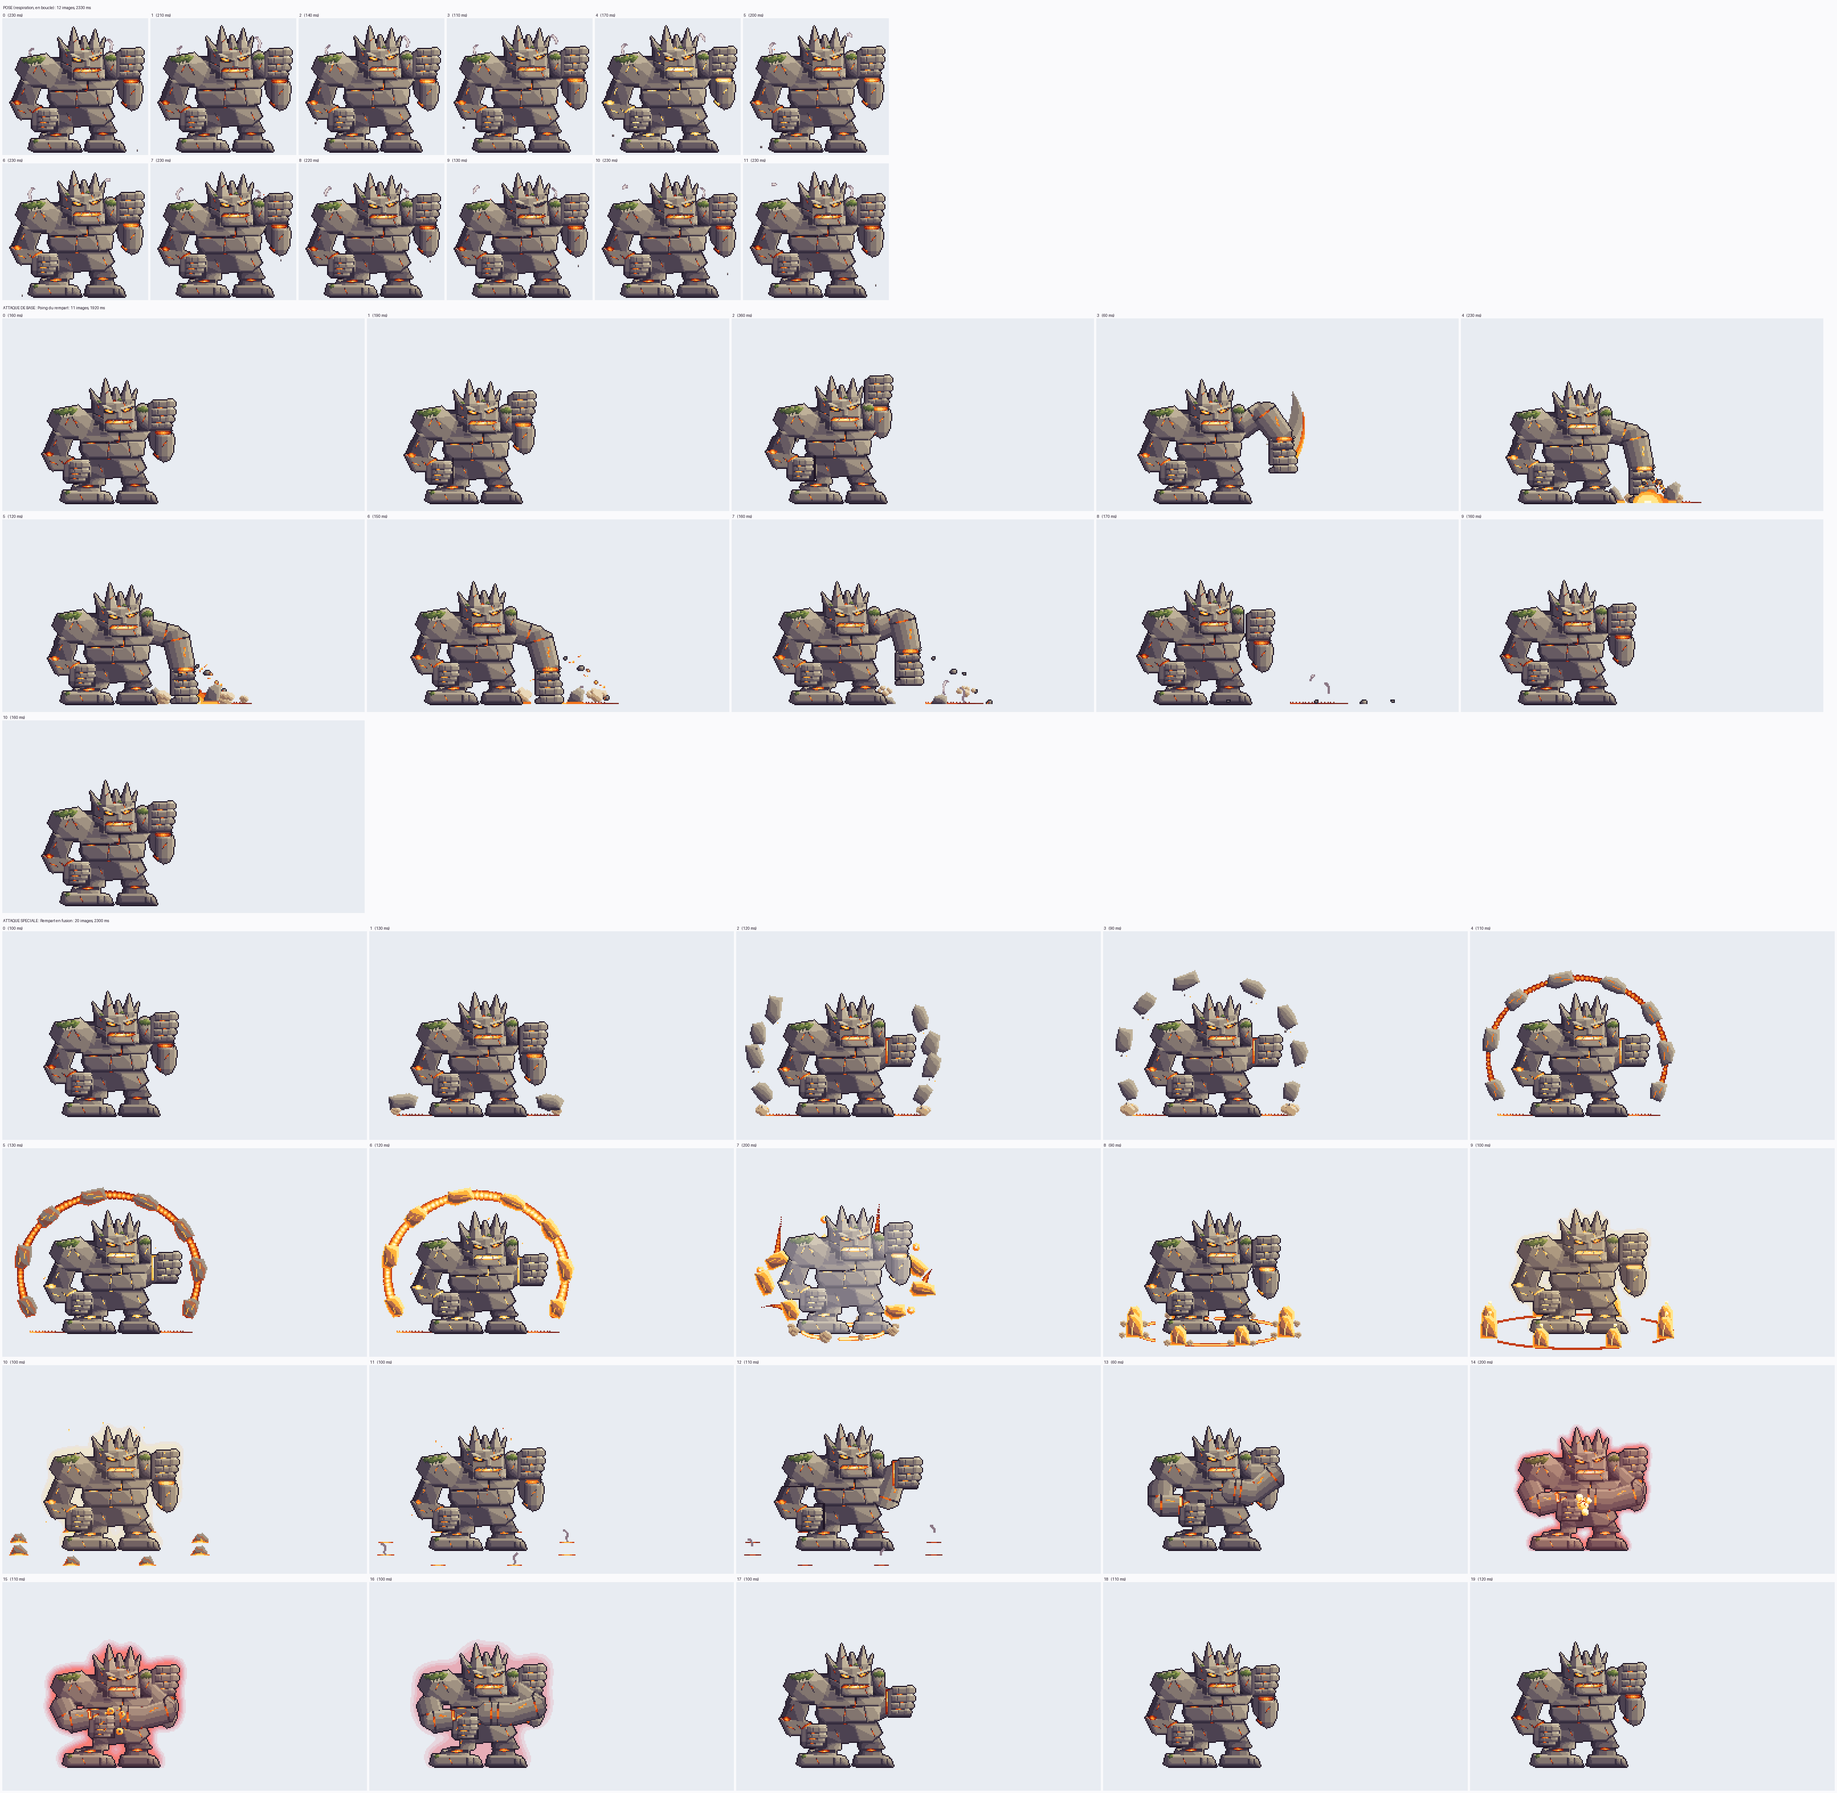
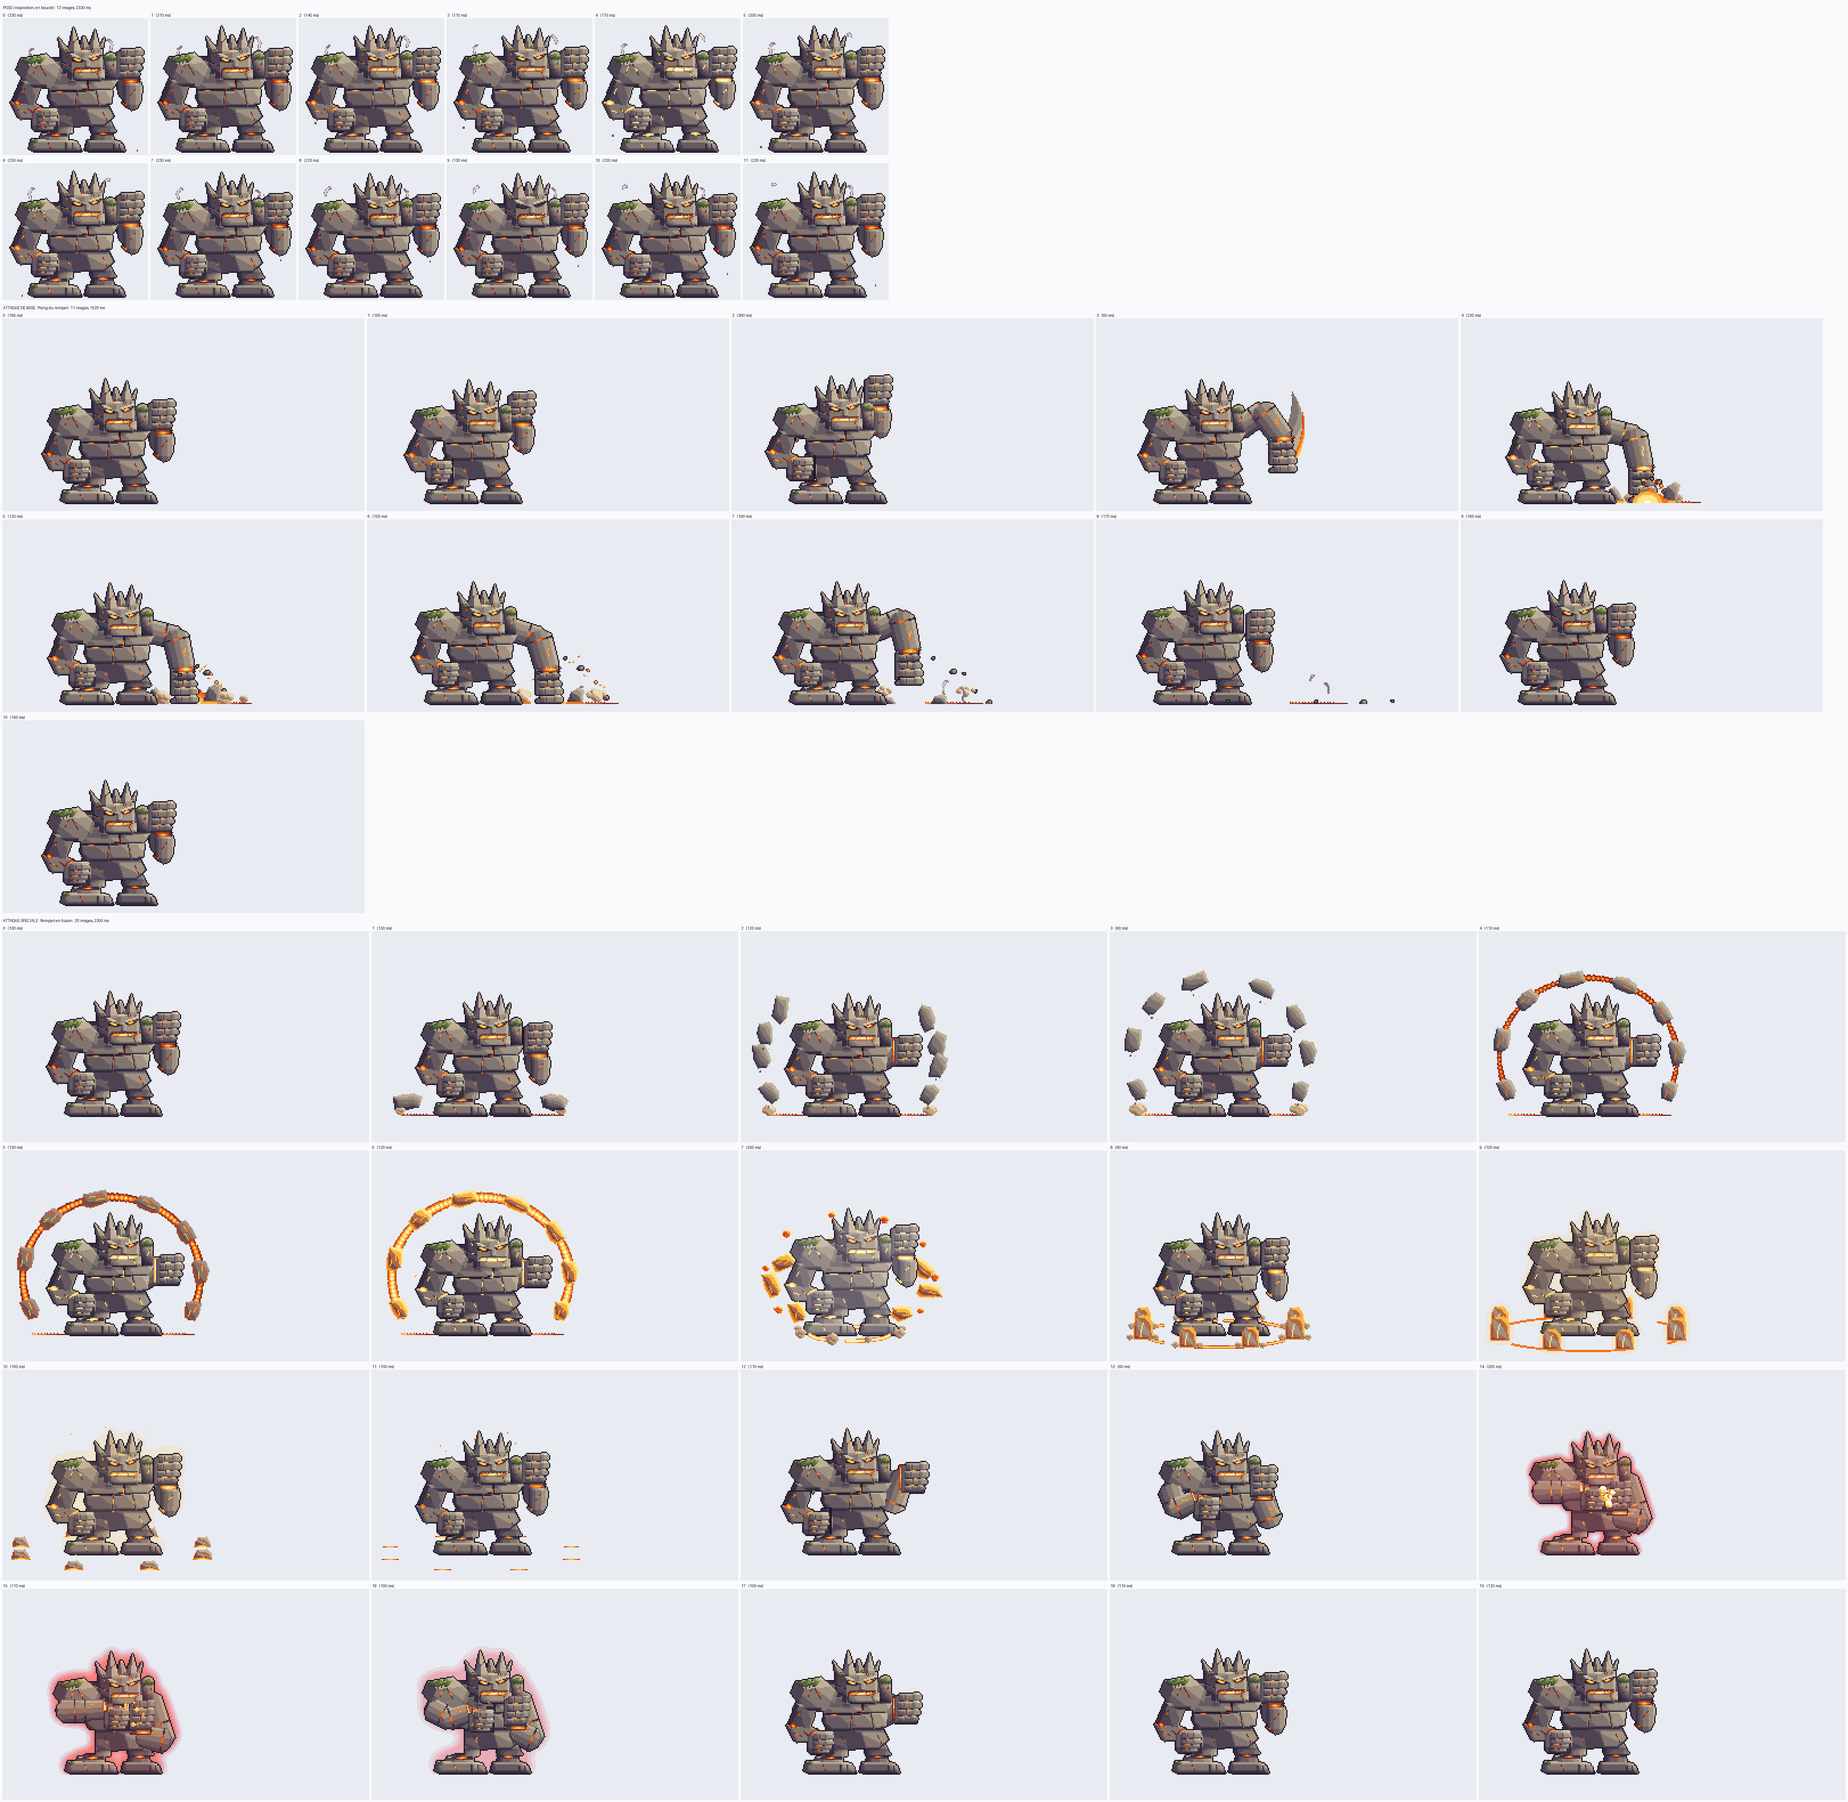
HD : spéciale d'équipe de Garvin en cours (sauvegarde)
Claude-Session: https://claude.ai/code/session_01StTiAZjvnzYLiVPjaUWZHe

diff --git a/refonte-graphique/pixel/hd/anim/garvin/build.py b/refonte-graphique/pixel/hd/anim/garvin/build.py
@@ -763,7 +763,9 @@ def rig_frame(f):
     arm = f.get('arm', ('orig', 0, 0))
     ctx.S = SH_FAR + o
     # le bras lointain (derrière le buste)
-    if arm[0] == 'orig':
+    if f.get('clash'):
+        pass                                         # les bras du défi : voir clash_arms
+    elif arm[0] == 'orig':
         blit(cv, glow(P['brasL'], gl), cx + arm[1], cy + arm[2])
         ctx.fist = np.array([112.0 + arm[1], 40.0 + arm[2]]) + o
     elif arm[0] == 'hammer':
@@ -782,7 +784,6 @@ def rig_frame(f):
     if clash:
         clash_arms(cv, ctx, clash, gl, 'derriere')
         body.draw(cv, glow(CORPS_NU, gl))
-        clash_arms(cv, ctx, clash, gl, 'devant')
     else:
         body.draw(cv, glow(P['corps'], gl))
         nx, ny = f.get('near', (0, 0))
@@ -791,6 +792,8 @@ def rig_frame(f):
     blit(cv, glow(P['tete'], gl), cx, cy, swap)
     if (hdx, hdy) != (0, 0):
         blit(cv, glow(P['tete'], gl), cx + hdx, cy + hdy, swap)
+    if clash:
+        clash_arms(cv, ctx, clash, gl)
     if f.get('post'):                                # la spéciale : la lave du corps change (le soin)
         post = f['post']
         cv[:] = np.vectorize(lambda c: post.get(c, c), otypes=['<U1'])(cv)
@@ -1156,13 +1159,14 @@ def stand_plate(cv, base, w, h, seed, heat=3, sink=0.0):
     bx, by = base
     dy = sink * h
     j = lambda: rng.uniform(-0.06, 0.06)
-    pts = [(-0.5, 0.0), (0.5, 0.0), (0.46 + j(), -0.72), (0.16 + j(), -1.0), (-0.22 + j(), -0.94), (-0.5, -0.58 + j())]
+    pts = [(-0.5, 0.0), (0.5, 0.0), (0.5, -0.76 + j()), (0.26 + j(), -1.0), (-0.3 + j(), -0.95), (-0.5, -0.7 + j())]
     pts = [(bx + u * w, by + dy + v * h) for (u, v) in pts]
     m = poly_mask(pts)
     m[int(by) + 1:, :] = False                       # sous le sol : rien
     if not m.any():
         return
-    tones = {0: '76543', 1: '76543', 2: '6h5g4', 3: 'vuhgt'}[heat]
+    # debout, elles restent de la roche (sinon on dirait des flammes) : la chaleur est dans leurs bords et leur fêlure
+    tones = {0: '76543', 1: '76543', 2: '7h6g4', 3: 'uh6hg'}[heat]
     v = light_field(m)
     edge = m & ~(np.roll(m, 1, 0) & np.roll(m, -1, 0) & np.roll(m, 1, 1) & np.roll(m, -1, 1))
     ys, xs = np.nonzero(m)
@@ -1171,7 +1175,7 @@ def stand_plate(cv, base, w, h, seed, heat=3, sink=0.0):
         ch = tones[0] if k > 0.28 else tones[1] if k > 0.08 else tones[2] if k > -0.1 else \
             tones[3] if k > -0.3 else tones[4]
         if edge[y, x] and k < -0.1:
-            ch = {0: '2', 1: '2', 2: 's', 3: 'u'}[heat]
+            ch = {0: '2', 1: '2', 2: 's', 3: 't'}[heat]
         put(cv, x, y, ch)
     if heat >= 1:
         # une fêlure de lave en marches, du pied vers le haut
@@ -1188,6 +1192,7 @@ def stand_plate(cv, base, w, h, seed, heat=3, sink=0.0):
             put(cv, bx + i, by, 'v' if e < 0.4 else 'u' if e < 0.75 else 't')
             if e < 0.6:
                 put(cv, bx + i, by - 1, 'u' if e < 0.3 else 't')
+    return m
 
 
 def plate_dims(i, r=1.0):
@@ -1195,7 +1200,7 @@ def plate_dims(i, r=1.0):
     ang, L, T, seed, bump, off = PLATES[i]
     back = math.sin(math.radians(RING_A[i])) > 0
     k = 0.9 if back else 1.04
-    return T * 1.05 * k, L * 0.9 * k
+    return T * 1.15 * k, L * 0.92 * k
 
 
 def ground_ellipse(back, front, r, w, tones, seed=0, holes=0.6):
@@ -1235,19 +1240,10 @@ def fx_ring(stage):
                     p[1] -= 10 * math.sin(math.pi * e)
                     behind = math.sin(math.radians(RING_A[i])) > 0
                     tgt = back if behind else front
-                    # une traînée de braise courbe derrière une plaque sur deux, une bouffée de chaleur derrière
-                    # les autres
-                    if i % 2 == 0:
-                        pts = []
-                        for j in range(16):
-                            q = e * j / 15
-                            pp = P0 + (P1 - P0) * q
-                            pts.append((pp[0], pp[1] - 10 * math.sin(math.pi * q)))
-                        ws = [0.8 + 6.5 * (j / 15) ** 1.3 for j in range(16)]
-                        stroke(back, pts, ws, 'vutsr', cool=[0.6 * (1 - j / 15) for j in range(16)])
-                    else:
-                        b = P0 + (P1 - P0) * (e * 0.45)
-                        puff(back, (b[0], b[1] - 4), 3.4, 'vut', hollow=0.35)
+                    # derrière chacune, une bouffée de chaleur qui se défait (pas de traînée droite : elles partent
+                    # dans toutes les directions, ce serait une couronne de rayons)
+                    bq = P0 + (P1 - P0) * (e * 0.35)
+                    cloud(back, (bq[0], bq[1] - 4), 2.6 if i % 2 else 3.2, 'vuts', seed=70 + i, ground=False)
                     spin = (1 if i % 2 else -1) * 35
                     plate(tgt, p, ang + 90 + spin * 0.6 + (RING_A[i] - ang) * 0.3, L, T, seed, heat=3)
                 # la poussière soufflée tout autour, au ras du sol
@@ -1258,9 +1254,11 @@ def fx_ring(stage):
                 return
             r = {'pose': 0.86, 'luit': 1.0, 'rentre': 1.03, 'fente': 1.03, 'froid': 1.03}[stage]
             if stage in ('pose', 'luit'):
-                ground_ellipse(back, front, 0.78 if stage == 'pose' else 1.0, 2.4 if stage == 'pose' else 1.6,
-                               'vuts' if stage == 'pose' else 'uts', seed=2 if stage == 'pose' else 4, holes=0.6)
+                ground_ellipse(back, front, 0.78 if stage == 'pose' else 1.0, 2.4 if stage == 'pose' else 1.4,
+                               'vuts' if stage == 'pose' else 'ut', seed=2 if stage == 'pose' else 4,
+                               holes=0.6 if stage == 'pose' else 0.42)
             order = sorted(range(8), key=lambda i: -math.sin(math.radians(RING_A[i])))   # de derrière vers devant
+            lit = np.zeros((H, W), bool)
             for i in order:
                 ang, L, T, seed, bump, off = PLATES[i]
                 th = RING_A[i]
@@ -1275,9 +1273,7 @@ def fx_ring(stage):
                         cloud(tgt, (base[0] + s_ * (w * 0.6 + 2), base[1] - 2), 2.6, 'EFFH', seed=seed + s_,
                               ground=False)
                 elif stage == 'luit':
-                    stand_plate(tgt, base, w, h, seed, heat=3)
-                    # elles luisent : une lueur douce au pied, le sol rougeoie sous elles
-                    puff(back if behind else front, (base[0] + 1, base[1] - h - 2), 1.6, 'wv')
+                    lit |= stand_plate(tgt, base, w, h, seed, heat=3)
                 elif stage == 'rentre':
                     stand_plate(tgt, base, w, h, seed, heat=2, sink=0.55)
                     if i % 3 == 0:
@@ -1289,9 +1285,13 @@ def fx_ring(stage):
                         e = abs(k) / (w / 2)
                         ch = ('u' if e < 0.35 else 't' if e < 0.7 else 's') if hot else ('s' if e < 0.4 else 'r' if e < 0.8 else 'O')
                         put(tgt, base[0] + k, base[1], ch)
-                    if i % 2 == 1:
-                        wisp(back if behind else front, (base[0], base[1] - 1), 8 if hot else 12, 2.0,
-                             tail=0.0 if hot else 0.35, cw=i % 4 == 1)
+            if lit.any():
+                # elles luisent : une lueur d'or douce et translucide autour de chacune (aucun trait)
+                B = np.asarray(Image.fromarray((lit * 255).astype(np.uint8)).filter(ImageFilter.GaussianBlur(2.6)),
+                               float) / 255
+                a_ = np.clip(B * 2.6, 0, 1) * 150
+                back[(a_ >= ALPHA['Q'] * 0.85) & (back == '.')] = 'Q'
+                back[(a_ >= ALPHA['R'] * 0.85) & (back == '.')] = 'R'
         finally:
             FLOOR[0] = None
     return f
@@ -1362,28 +1362,31 @@ CORPS_NU = P['corps'].copy()
 CORPS_NU[(XX == 49) & (YY >= 84) & (YY <= 92) & (CORPS_NU == '6')] = '3'
 
 
-def clash_arms(cv, ctx, c, gl, stage):
-    """stage 'derriere' : le haut du bras lointain (avant le buste) ; 'devant' : son avant-bras et son poing, puis le
-    bras proche et son poing (après le buste). c = dict(near=(dx, dy) du poing proche, far=poignet lointain (grille),
-    tip=bout du poing lointain (grille))"""
-    o = ctx.o
-    Sf = SH_FAR + o
-    Wf = np.array(c['far'], float) + o
-    Ef = ik(Sf, Wf, ARM_FAR[0], ARM_FAR[1], -1)
-    if stage == 'derriere':
-        layered(cv, lambda lay: draw_rock_limb(lay, Sf, Ef, 10.0, 9.5, seams=(0.6,), lava=gl), rim_rock)
-        return
-    Tf = np.array(c['tip'], float) + o
-    v = Tf - Wf
-    u = v / max(np.linalg.norm(v), 1e-6)
+FIST_UP = over(P['poingL'], P['poignetL'])      # le poing levé du dessin et son poignet de lave (sans l'avant-bras)
+ELBOW_FAR = np.array([109.0, 86.0])            # le coude lointain pendant le défi (grille, relatif au buste)
 
-    def far(lay):
-        draw_rock_limb(lay, Ef, Wf - 1.5 * u, 10.5, 9.5, seams=(0.08,), crack=(0.35, 0.68), lava=gl)
-        wrist_band(lay, Wf - 2.0 * u, Wf + 1.5 * u, 10.0, gl)
-        draw_rock_limb(lay, Wf + 1.5 * u, Tf, 11.0, 10.5, seams=(0.42, 0.7), lava=gl)
-    layered(cv, far, rim_rock)
+
+def clash_arms(cv, ctx, c, gl, stage='devant'):
+    """les deux bras du défi. stage 'derriere' : le haut du bras lointain (posé avant le buste) ; 'devant' : son
+    avant-bras et son poing, puis le bras proche et son poing (posés après le buste et la tête).
+    c = dict(near=(dx, dy) du poing proche, far=(dx, dy) du poing lointain), en pixels par rapport au dessin"""
+    bx, by = ctx.body.follow(50)
+    o = ctx.o
+    dxf, dyf = c['far']
+    Ef = ELBOW_FAR + o
+    if stage == 'derriere':
+        layered(cv, lambda lay: draw_rock_limb(lay, SH_FAR + o, Ef, 10.0, 10.0, seams=(0.6,), lava=gl), rim_rock)
+        return
+    # le bras lointain : le coude sort sur le côté, l'avant-bras remonte en biais vers le poing du dessin (au pixel
+    # près), ramené devant la poitrine
+    Wf = np.array([111.0 + dxf, 58.0 + dyf]) + o
+    vf = Wf - Ef
+    uf = vf / max(np.linalg.norm(vf), 1e-6)
+    layered(cv, lambda lay: draw_rock_limb(lay, Ef, Wf - 1.0 * uf, 11.0, 10.0, seams=(0.08,), crack=(0.35, 0.68),
+                                           lava=gl), rim_rock)
+    layered(cv, lambda lay: blit(lay, glow(FIST_UP, gl), bx + dxf, by + dyf), rim_rock)
     dxn, dyn = c['near']
-    Wn = NWRIST + np.array([dxn, dyn], float) + np.array([OX, OY], float) + np.array(ctx.body.follow(50), float)
+    Wn = NWRIST + np.array([dxn, dyn], float) + np.array([OX + bx, OY + by], float)
     Sn = SH_NEAR + o
     En = ik(Sn, Wn, ARM_NEAR[0], ARM_NEAR[1], 1)
     vn = Wn - En
@@ -1394,9 +1397,8 @@ def clash_arms(cv, ctx, c, gl, stage):
         draw_rock_limb(lay, En, Wn - 1.0 * un, 9.5, 8.5, seams=(0.06,), crack=(0.3, 0.7), lava=gl)
         wrist_band(lay, Wn - 2.5 * un, Wn + 0.5 * un, 8.0, gl)
     layered(cv, near, rim_rock)
-    bx, by = ctx.body.follow(50)
     layered(cv, lambda lay: blit(lay, glow(NFIST, gl), bx + dxn, by + dyn), rim_rock)
-    ctx.contact = np.array([49.0 + dxn, 84.0 + dyn]) + np.array([OX + bx, OY + by], float)
+    ctx.contact = np.array([49.0 + dxn, 86.0 + dyn]) + np.array([OX + bx, OY + by], float)
 
 
 def red_glow(cv, back, amax, sig=3.0, rise=1):
@@ -1427,8 +1429,8 @@ def fx_clash(k):
             for (dx, dy, r) in ((0, 0, 5.0), (-3, -6, 3.2), (2, 7, 3.0), (5, -3, 2.6)):
                 puff(front, (C[0] + dx, C[1] + dy), r, 'wwvu')
         elif k == 1:
-            for (dx, dy, r) in ((-4, -9, 3.4), (4, 9, 3.0), (6, -6, 2.8)):
-                puff(front, (C[0] + dx, C[1] + dy), r, 'vut', hollow=0.45)
+            for (dx, dy, r) in ((-3, -8, 2.2), (3, 8, 2.0), (6, -5, 1.8)):
+                puff(front, (C[0] + dx, C[1] + dy), r, 'vu')
         tau = [0.5, 1.2, 2.0][k]
         for j, (vx, vy, sz) in enumerate(CLASH_DROPS):
             x = C[0] + vx * tau
@@ -1448,7 +1450,7 @@ def heated(**kw):
 
 
 BRACE = (104, 60)                     # le bord gauche du poing levé, redescendu devant la poitrine (grille)
-CLASH = dict(near=(19, -9), far=(90, 72), tip=(66, 71))          # les poings l'un contre l'autre
+CLASH = dict(near=(30, -22), far=(-22, 24))       # les poings l'un contre l'autre, devant la poitrine
 SPECIALE = [
     dict(ms=100),
     # 1-6 : il se ramasse, sa lave monte, le dôme de plaques se forme autour de lui, chauffe au rouge puis à blanc
@@ -1460,7 +1462,7 @@ SPECIALE = [
     dict(crouch=3, arm=('punch', (103, 62)), head=(0, 2), gl=4, fx=[fx_shell_form(1.0, 3)], ms=120),
     # 7 : LANCEMENT (temps fort tenu) : il se redresse d'un coup, le poing levé, et le dôme s'ouvre : les plaques
     # s'écartent de lui dans toutes les directions, une onde de chaleur court au sol en cercle autour de lui
-    dict(crouch=-1, arm=('orig', 0, -5), head=(0, -1), gl=4, flash=30, fx=[fx_ring('vol')], ms=200),
+    dict(crouch=-1, arm=('orig', 0, -5), head=(0, -1), gl=4, flash=16, fx=[fx_ring('vol')], ms=200),
     # 8-11 : les plaques se posent debout en anneau autour de lui, luisent, puis rentrent dans le sol ;
     # ses fissures se referment et luisent doucement (le soin)
     heated(crouch=2, arm=('orig', 1, 4), head=(0, 1), gl=3, fx=[fx_ring('pose')], ms=90),
@@ -1470,13 +1472,12 @@ SPECIALE = [
            tint=((255, 200, 120), 8), ms=100),
     heated(crouch=1, arm=('orig', 0, 1), gl=0, fx=[fx_ring('fente'), fx_heal(2)], post=HEAL[3], ms=100),
     # 12-13 : le défi : il écarte les bras (le poing lointain vers l'ennemi, le proche en arrière) puis les abat
-    dict(crouch=0, lean=-1, arm=('punch', (110, 50)), near=(-2, 1), head=(0, -1), gl=1, fx=[fx_ring('froid')],
-         ms=110),
-    dict(crouch=1, lean=0, clash=dict(near=(11, -4), far=(100, 66), tip=(80, 64)), gl=2, ms=60),
+    dict(crouch=0, lean=-1, arm=('punch', (110, 50)), near=(-2, 1), head=(0, -1), gl=1, ms=110),
+    dict(crouch=1, lean=0, clash=dict(near=(16, -13), far=(-9, 12)), gl=2, ms=60),
     # 14-16 : les deux poings l'un contre l'autre : arrêt sur l'image, étincelles, la lueur rouge gonfle et s'éteint
     dict(crouch=2, lean=1, clash=CLASH, head=(0, 1), gl=3, fx=[fx_clash(0)], tint=((255, 70, 60), 16), ms=200),
     dict(crouch=2, lean=1, clash=CLASH, head=(0, 1), gl=2, fx=[fx_clash(1)], tint=((255, 70, 60), 8), ms=110),
-    dict(crouch=1, lean=1, clash=dict(near=(16, -7), far=(92, 70), tip=(70, 69)), gl=1, fx=[fx_clash(2)], ms=100),
+    dict(crouch=1, lean=1, clash=dict(near=(26, -19), far=(-17, 21)), gl=1, fx=[fx_clash(2)], ms=100),
     # 17-18 : il laisse retomber les bras en garde
     dict(crouch=1, arm=('punch', BRACE), near=(1, 0), ms=100),
     dict(arm=('orig', 0, 2), ms=110),
